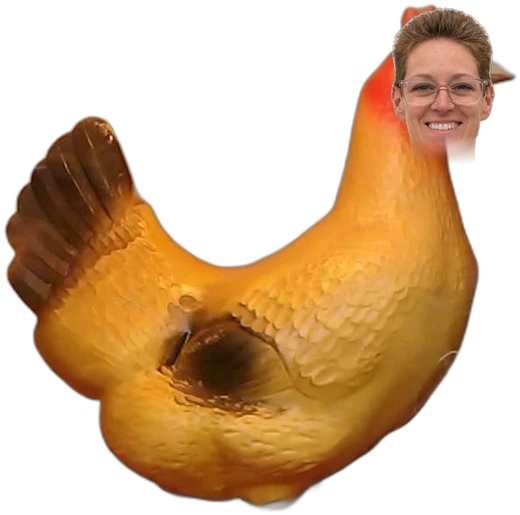
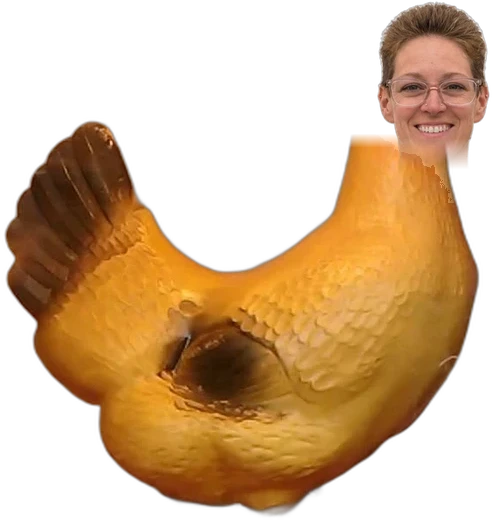
Cluckin' Abby: Abby's head fully replaces the chicken head (#96)
Claude-Session: https://claude.ai/code/session_01HKyCc4k4tbjRR5EKmTbVKW

diff --git a/carnival/abby-hen/index.html b/carnival/abby-hen/index.html
@@ -224,7 +224,7 @@ function drawWindow() {
     const hw = Math.min(c.ww * 0.7, (c.floor - c.wy - c.wh * 0.2) / 0.99 * hen.naturalWidth / hen.naturalHeight), hh = hw * hen.naturalHeight / hen.naturalWidth, hx = c.wx + c.ww * 0.5 - hw / 2 + shake, hy = c.floor - hh * 0.9 + bob;
     ctx.fillStyle = "rgba(0,0,0,.18)"; ctx.beginPath(); ctx.ellipse(c.wx + c.ww / 2, c.floor + 4, hw * 0.42, 12, 0, 0, 7); ctx.fill();
     ctx.drawImage(hen, hx, hy, hw, hh);
-    const fh = hh * 0.32; drawHead(hx + hw * 0.847, hy + hh * 0.155 - fh * 0.575 + bob * 0.5, fh);   // Abby's turning head
+    const fh = hh * 0.34; drawHead(hx + hw * 0.83, hy + hh * 0.249 - fh * 0.8, fh);   // Abby's turning head sits right on the hen's neck (the chicken's own head was erased)
   }
   // the bed of eggs in front of her
   const er = c.ww * 0.05;

diff --git a/carnival/sw.js b/carnival/sw.js
@@ -1,5 +1,5 @@
 // Carnival Midway offline cache. Bump VERSION when you change any file.
-const VERSION = "midway-v89";
+const VERSION = "midway-v90";
 const CORE = [
   "./", "index.html", "coins.js", "mikey/poster.webp", "mikey/lines.js", "manifest.webmanifest", "icon-192.png", "icon-512.png", "icon-maskable-512.png", "apple-touch-icon.png", "favicon-32.png",
   "down-the-clown/", "down-the-clown/index.html",

diff --git a/README.md b/README.md
@@ -111,7 +111,7 @@ It works offline once it has been opened. High scores are saved on each device.
 
 **The Junk Crane** (`carnival/junk-crane/`): a claw machine full of plastic prize eggs. Drag the slider to move the claw, tap DROP, and it drops, grabs and carries the egg to the prize chute; the closer to the middle of an egg, the better it holds; the claw swings a little on its cable when you drop it (more if it was still moving, `SWING`), and sometimes it slips anyway. Players win about 4 to 5½ eggs per 10 tries (`GRIP`). 5 tries for 1 coin. Every egg you win pops open to a piece of family junk (Eddie’s debt, one of Sonny’s 900 billion spare Harley keys, Abby’s glasses, the penny Abby found on the floor, an empty egg Eddie already robbed, a poof of Eddie’s chest hair, a note saying you owe Eddie five dollars, Eddie’s IOU for the $20 he owes you, Abby’s unwanted opinion, a jar of her hot air, her hair clippings, Sonny’s mustache clippings, his used bandana, an old roach and a bullet casing from his last hunt, and more in `PRIZES`). The best haul is saved. One gold egg has a real coin inside: +1.
 
-**Cluckin’ Abby** (`carnival/abby-hen/`): a coin-op egg-laying hen machine drawn to look real (white enamel cabinet with rivets, orange roof with a lit sign, glass window, coin slot and egg door). The hen is a photo cutout (`img/hen-body.webp`) with Abby’s real head on it, made from 8 photos of her taken every 45° around (`img/head.webp`), so her head turns: she looks around while idle and spins all the way around (back of her head included) while she cackles. Tap INSERT COIN (1 coin): Abby cackles and talks (“Bawk! So anyway, where was I?”), shakes and lays a gift egg that rolls out of the door. Tap the egg to open it: junk in every egg (`PRIZES`), and 1 in 12 is a gold egg with 2 gifts, a junk prize plus your coin back (+1). The phone counts how many eggs Abby has laid.
+**Cluckin’ Abby** (`carnival/abby-hen/`): a coin-op egg-laying hen machine drawn to look real (white enamel cabinet with rivets, orange roof with a lit sign, glass window, coin slot and egg door). The hen is a photo cutout (`img/hen-body.webp`) with its chicken head removed and Abby’s real head on its neck instead, made from 8 photos of her taken every 45° around (`img/head.webp`), so her head turns: she looks around while idle and spins all the way around (back of her head included) while she cackles. Tap INSERT COIN (1 coin): Abby cackles and talks (“Bawk! So anyway, where was I?”), shakes and lays a gift egg that rolls out of the door. Tap the egg to open it: junk in every egg (`PRIZES`), and 1 in 12 is a gold egg with 2 gifts, a junk prize plus your coin back (+1). The phone counts how many eggs Abby has laid.
 
 **Sonny the Sorta Psychic** (`carnival/fortune-sonny/`): a fortune-teller machine. The machine picture is `img/machine.webp`; the bulbs twinkle, the lamps flicker and the crystal ball swirls on top of it. Pick a topic (Love, Money, Family, Work, Friends, Future), or tap INSERT COIN or the crystal ball for a surprise. Sonny's words show on the purple sign (and says them out loud in a recorded man’s voice, the same on every phone; there is an on/off switch), then a fortune card comes out of the card slot.
 
